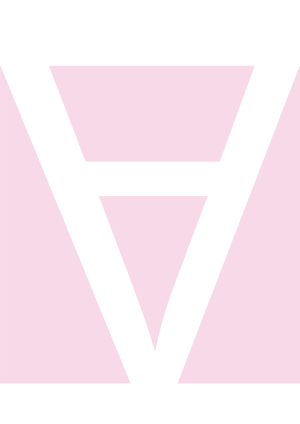
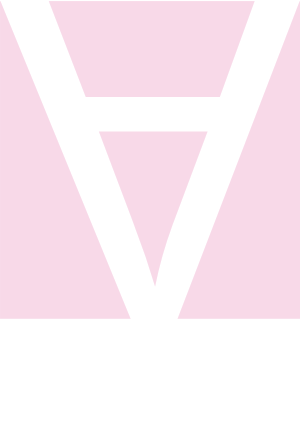
modifs

diff --git a/Style.css b/Style.css
@@ -1,16 +1,17 @@
 
 Body { 
-	margin: 30px 0px 0px 0px;
+	margin: 0;
 	padding: 0;
-    font-family: helvetica;
+  font-family: helvetica;
+  width: 100vw;
 }
 
 #container { 
-	width: 100vw;
 	display: flex;
 	flex-direction: column;
-	justify-content: center;
+	justify-content: flex-start;
 	align-items: center;
+	width: 100%;
 }
 
 a {
@@ -18,45 +19,59 @@ a {
    text-decoration: none;   
 }
 a:hover {
-	color: #f7d8e8;
+	color: black;
+	text-shadow: 0em 0em 1em yellow;
 }
 
 
 #principale {
-	background-image: url('assets/backgroundmobile.png');
-	background-repeat: no-repeat;
-	background-position: center center;
-	width: 300px;
+	max-width: 300px;
 	display: flex;
 	flex-direction: column;
-	padding: 15px;
-	justify-content: center;
+	justify-content: flex-start;
 	align-items: center;
 	box-sizing:border-box;
-	margin-bottom: 15px;
+	background-color: #f7d8e8;
+	border-radius: 10px;
+	height: 385px;
+	max-width: none;
+	background-color: transparent;
 }
 
+#nom {
+	box-sizing: border-box;
+	display: flex;
+	flex-direction: column;
+	justify-content: space-between;
+	align-items: center;
+	width: 100%;
+	padding: 10px;
+}
 
 h1 {
-	font-size: 65px;
-	margin: 0px 0px 11px 0px;
+    font-size: 65px;
+    margin: 0px 0px 0px 0px;
 }
 h2 {
 	font-size: 23px;
-	margin: 0;
+	margin: 0px 0px 10px 0px;
 }
 
 p {
 	font-size: 15px;
 	text-align: justify;
 }
+#principale p {
+	width: 90%;
+}
+}
 
 #liens{
 	display: flex;
 	justify-content: space-between;
 	width: 300px;
-	padding: 20px 15px 15px 20px;
-	box-sizing:border-box;
+	padding: 10px 15px 15px 20px;
+	box-sizing:border-box;	
 }
 
 h3{
@@ -86,22 +101,32 @@ h3{
 h4{
 	font-size: 20px;
 }
+#image{
+	display: flex;
+	justify-content: safe center;
+}
 
 img {
 	width: 150px;
 	height: 150px;
-	}
+}
 
 @media screen and (min-width: 700px) {
+  
+  #body{
+  	height: 100vh;
+  }
+
   #container { 
   	display: flex;
   	flex-direction: row;
   	background-image: url('assets/background.png');
   	background-position: center left;
   	background-repeat: no-repeat;
-	background-size: 1200px;
-	height: 100vh;
-  	}
+		background-size: 1200px;
+		height: 100vh;
+		width: 100vw;
+	}
 
   #principale {
 	background-image: none;
@@ -113,26 +138,40 @@ img {
 	margin: 0;
 	font-size: 90px;
 	order: 3;
-}
+	}
 
-#principale p{
+	#principale p {
 	width: 300px;
-}
-
-  #liens{
-  	width: 32%;
-  	height: 100%;
-  	justify-content: space-between;
-  	order: 2;
-  	padding: 20px 0px 0px 0px;
+	}
+	#nom {
+	box-sizing: border-box;
+	display: flex;
+	flex-direction: column;
+	justify-content: space-between;
+	align-items: flex-end;
+	width: 100%;
 	}
 	
 	h1 {
 	font-size: 95px;
 	margin: 0px 0px 11px 0px;
-}
+	}
 
-  #contact {
+	#liens{
+  	width: 32%;
+  	height: 100%;
+  	display: flex;
+  	justify-content: space-between;
+  	order: 2;
+  	padding: 20px 0px 0px 0px;
+	}
+
+
+	h3{
+		font-size: 25px;
+}
+	
+ #contact {
 	width: 15%;
 	height: 100%;
 	justify-content: flex-end;
@@ -145,7 +184,6 @@ img {
   #image{
   	width: 10%;
   	height: 100%;
-  	display: flex;
   	flex-direction: column;
   	justify-content: flex-start;
   	align-items: flex-end;
@@ -155,7 +193,9 @@ img {
   img{
   	width: 100px;
   	height: 100px;
-  }
+		}
+
+		
 } 	
 
 

diff --git a/index.html b/index.html
@@ -8,15 +8,18 @@
 </head>
 
 <body>
- <div id="container">
 
-  <div id="principale">
-      <h1>Aurore</h1>
-      <h1>VAN</h1>
-      <h1>DAMME</h1>
+  <div id="container">
+    <div id="principale">
+      <div id="nom">
+        <h1>Aurore</h1>
+        <h1>VAN</h1>
+        <h1>DAMME</h1>
+      </div>
       <h2>Web Developer Junior</h2>
-      <p>I'm a front end developer based in Brussels. I'm curently training at Becode Brussels and i'm looking for a 3-month internship to complete my training.</p>  
-  </div>
+      <p>I'm a front end developer based in Brussels. I'm curently training at Becode Brussels and i'm looking for a 3-month internship to complete my training.
+      </p>  
+    </div>
 
   <div id="liens">
     <div id="portfolio">
@@ -31,24 +34,23 @@
   <div id="image">
     <img src="assets/logo.png" alt="logo">
   </div>  
-    
 
-    <div id="contact">
+  <div id="contact">
       <h4>Phone</h4> 
       <p> 0032 (0)4 86 77 96 34 </p>
       <h4>Find me on: </h4>
-      <div id="reseaux_sociaux" >
+      <div id="reseaux_sociaux">
         <a href="https://www.instagram.com/aurore_vd/"><i class="fa-brands fa-instagram"></i>
         </a>
         <a href="https://www.facebook.com/vandammeaurore"><i class="fa-brands fa-facebook"></i>
         </a>
         <a href="https://www.linkedin.com/in/aurore-v-a6382b157/"><i class="fa-brands fa-linkedin"></i>
         </a>
-      </div>
+  </div>
       <h4>E-mail</h4>
       <a id="mail" href="mailto:aurorevandamme@gmail.com"> aurorevandamme@gmail.com</a>
-    </div>
-
- </div> 
+  </div>
+   </div> 
+  </div> 
 </body>
 </html>
